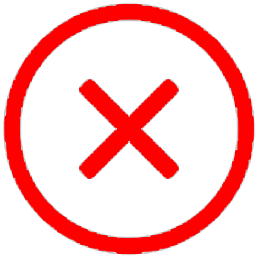
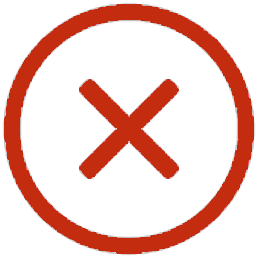
Updated appicon Result colors Version sync with IOS

Changed region(s): [[0.0, 0.0, 0.9922, 0.9922], [0.3101, 0.3101, 0.7132, 0.7132]]

diff --git a/VaccinbevisVerifiering/ViewModels/ResultViewModel.cs b/VaccinbevisVerifiering/ViewModels/ResultViewModel.cs
@@ -457,7 +457,7 @@ namespace VaccinbevisVerifiering.ViewModels
         {
             if (value is bool)
             {
-                return ((bool)value ? Color.DarkGreen : Color.DarkRed );
+                return ((bool)value ? "#008204" : "#C32C0F");
             }
             return "#695F59";
         }
